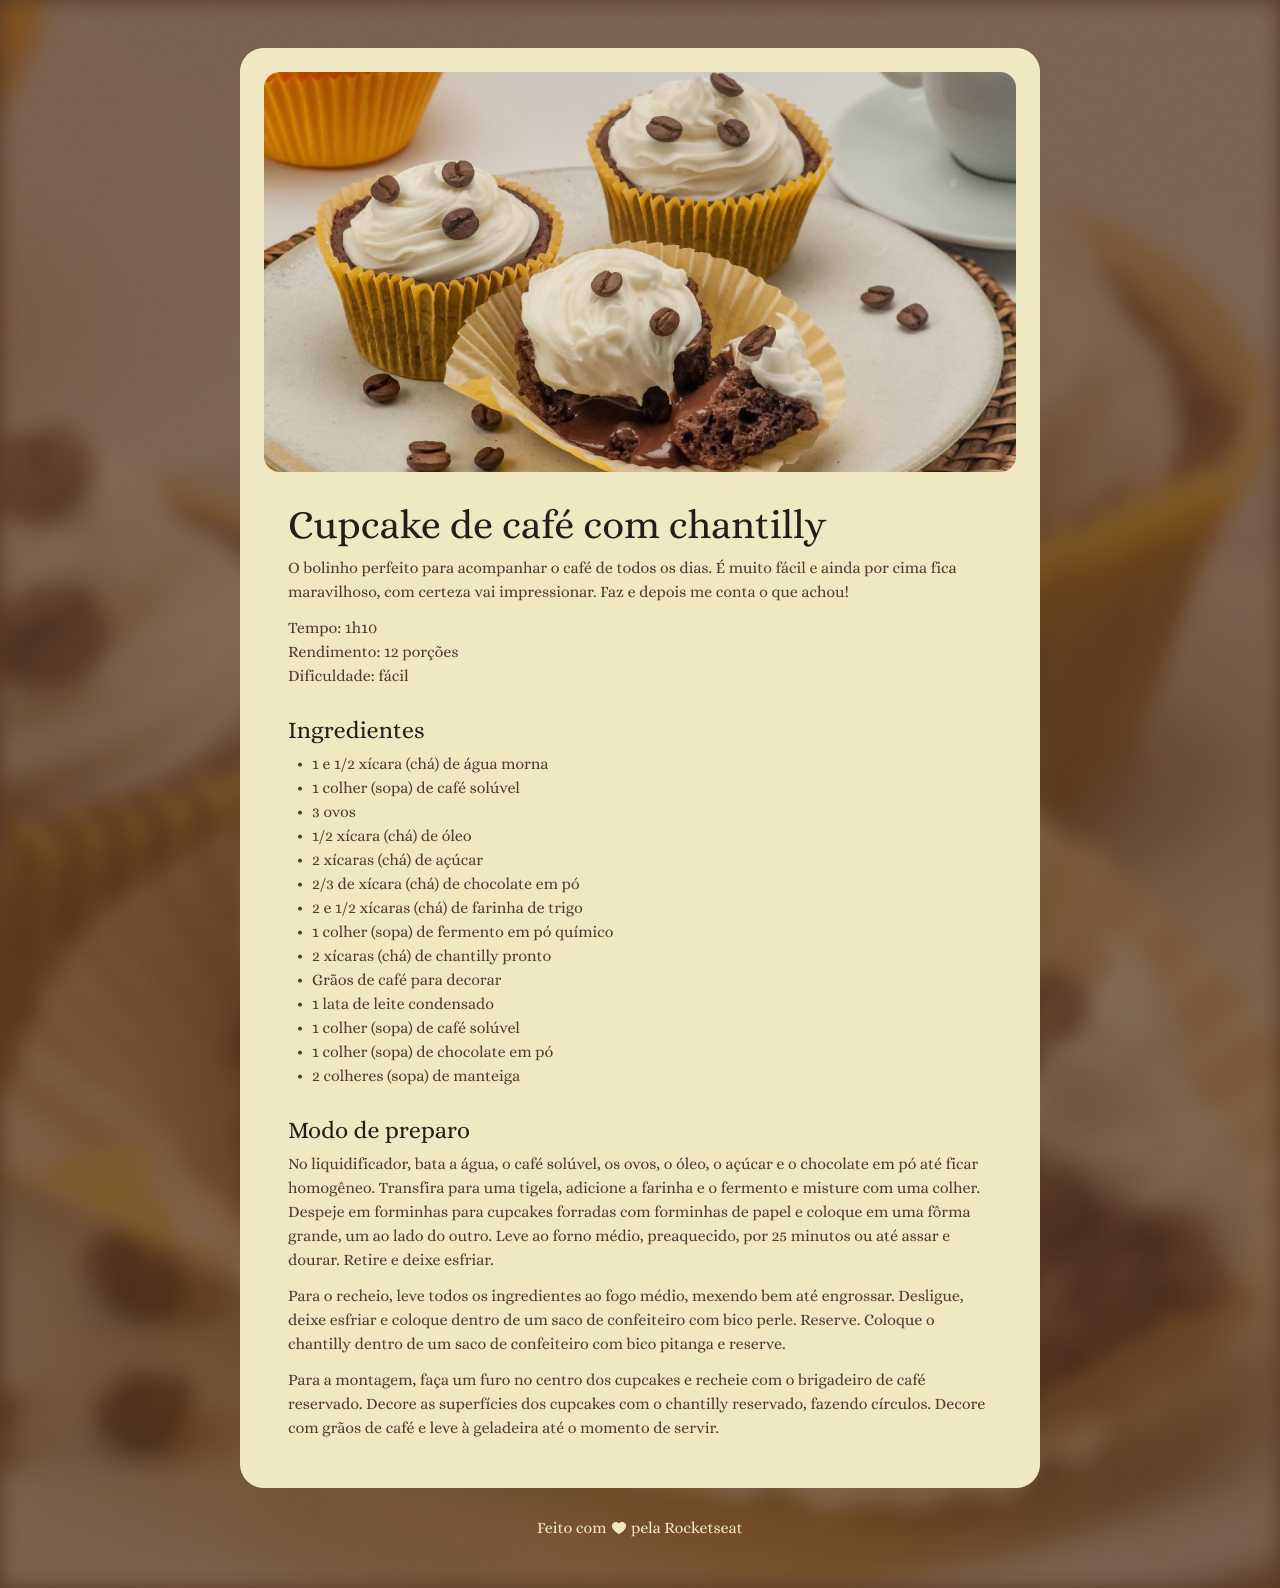
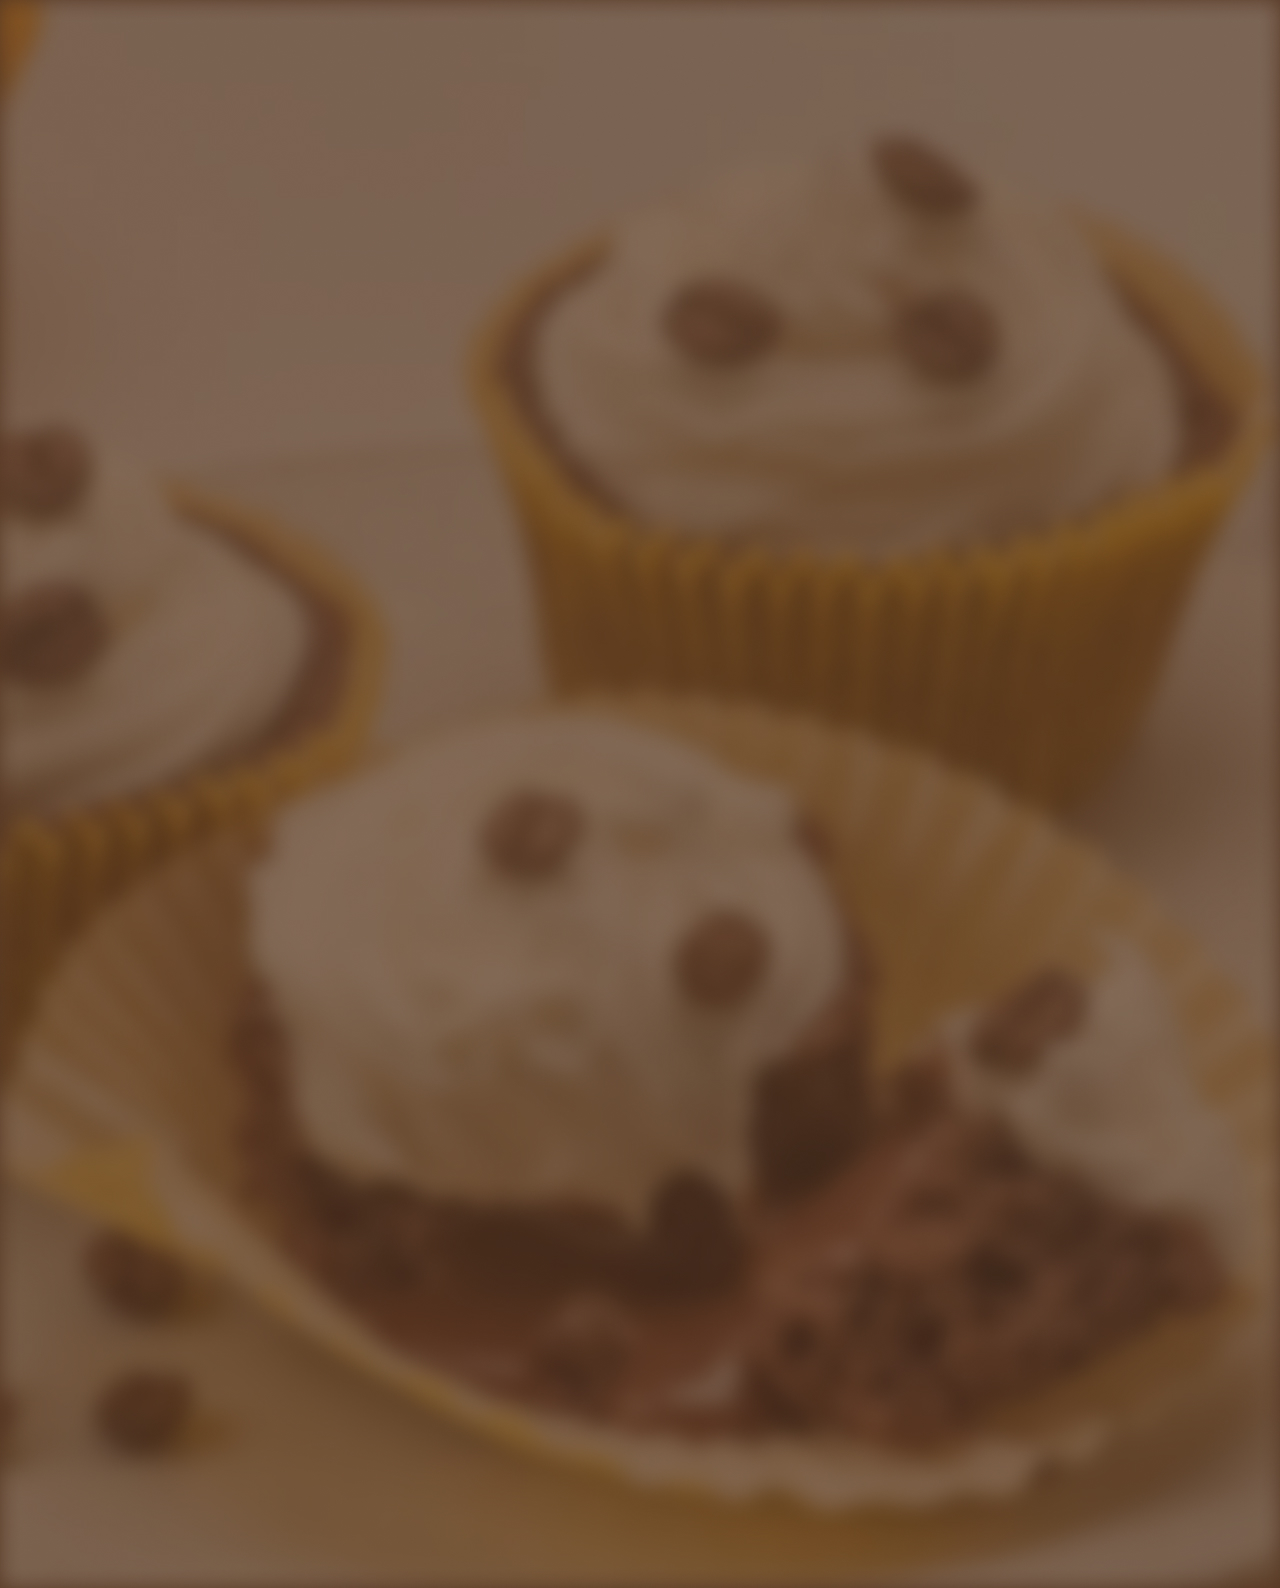
mudanças no export de imagem bg e no css

diff --git a/style.css b/style.css
@@ -42,11 +42,11 @@ h1 {
   font-size: 40px;
 }
 
-h2, h3 {
+h2 {
   font-size: 24px;
 }
 
-h1, h2, h3 {
+h1, h2 {
   color:#291B1A;
   margin-bottom: 4px;
   line-height: 150%; 
